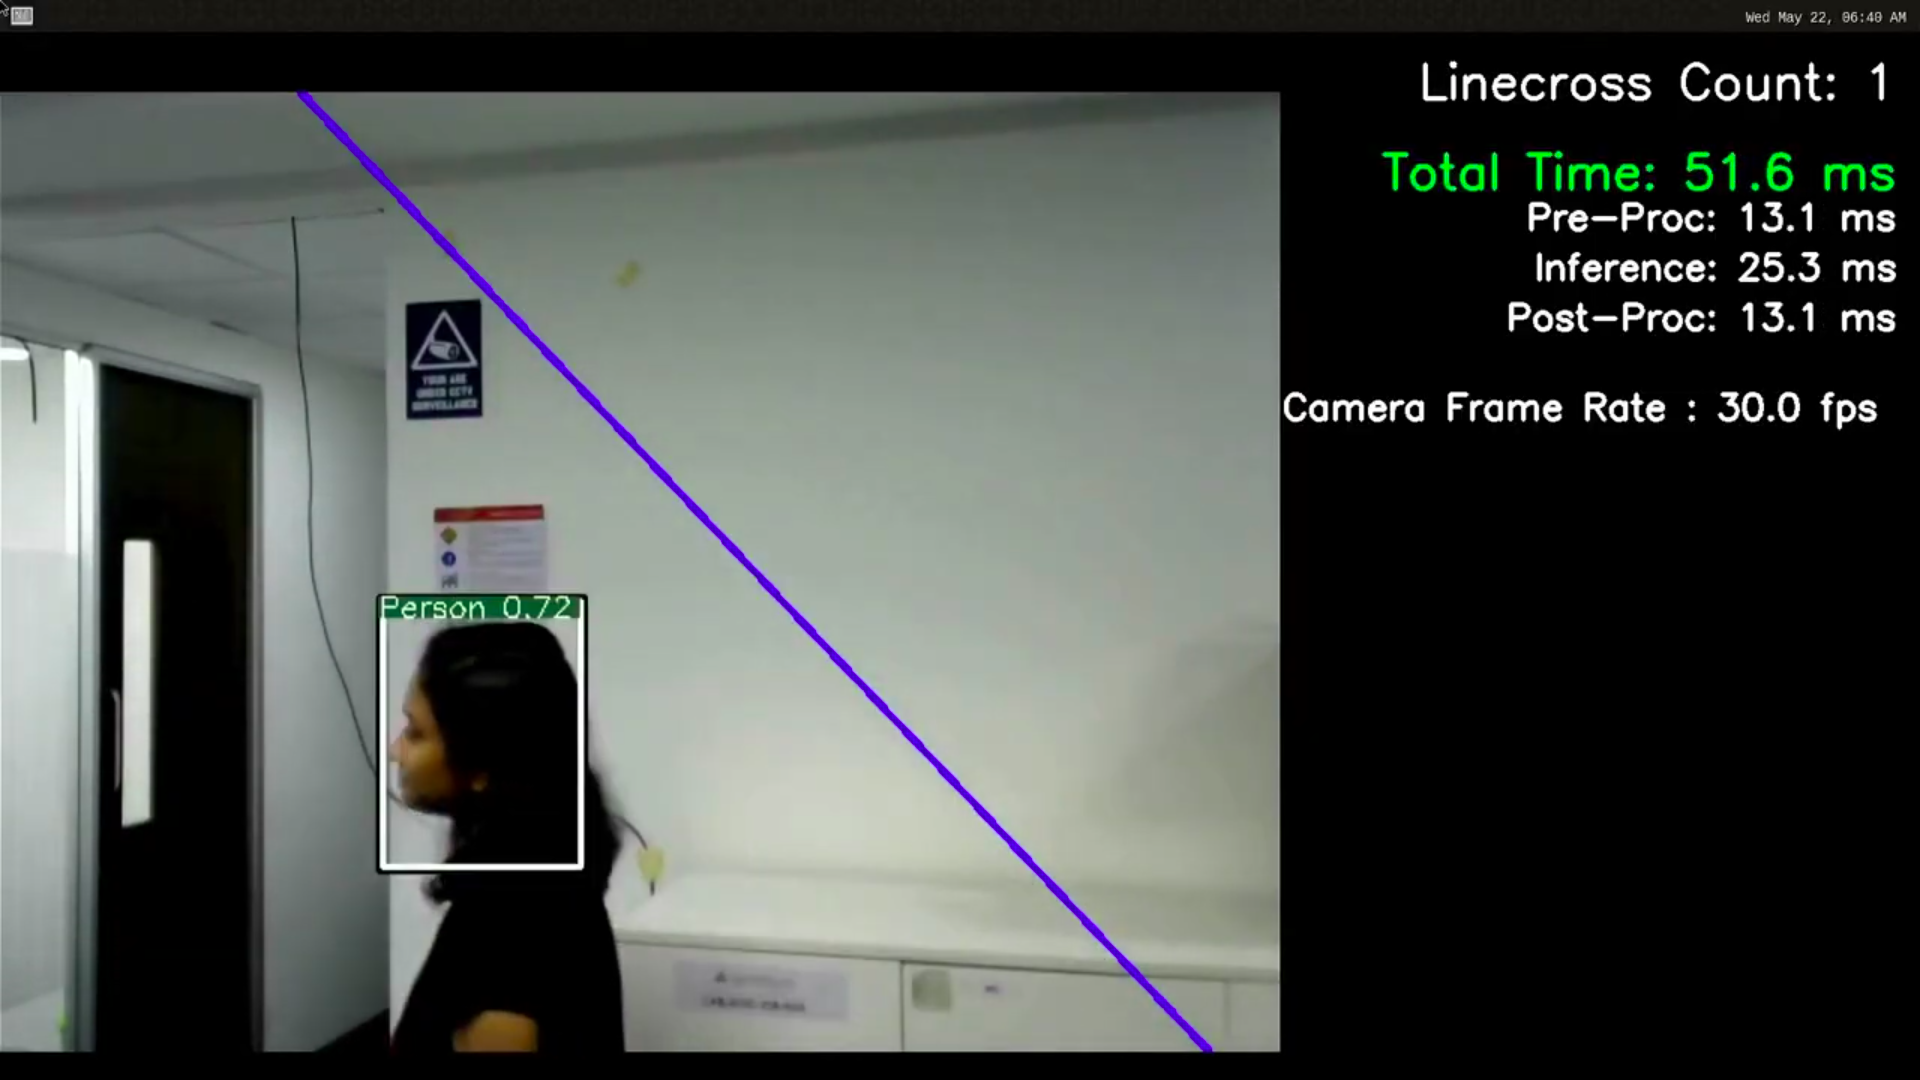
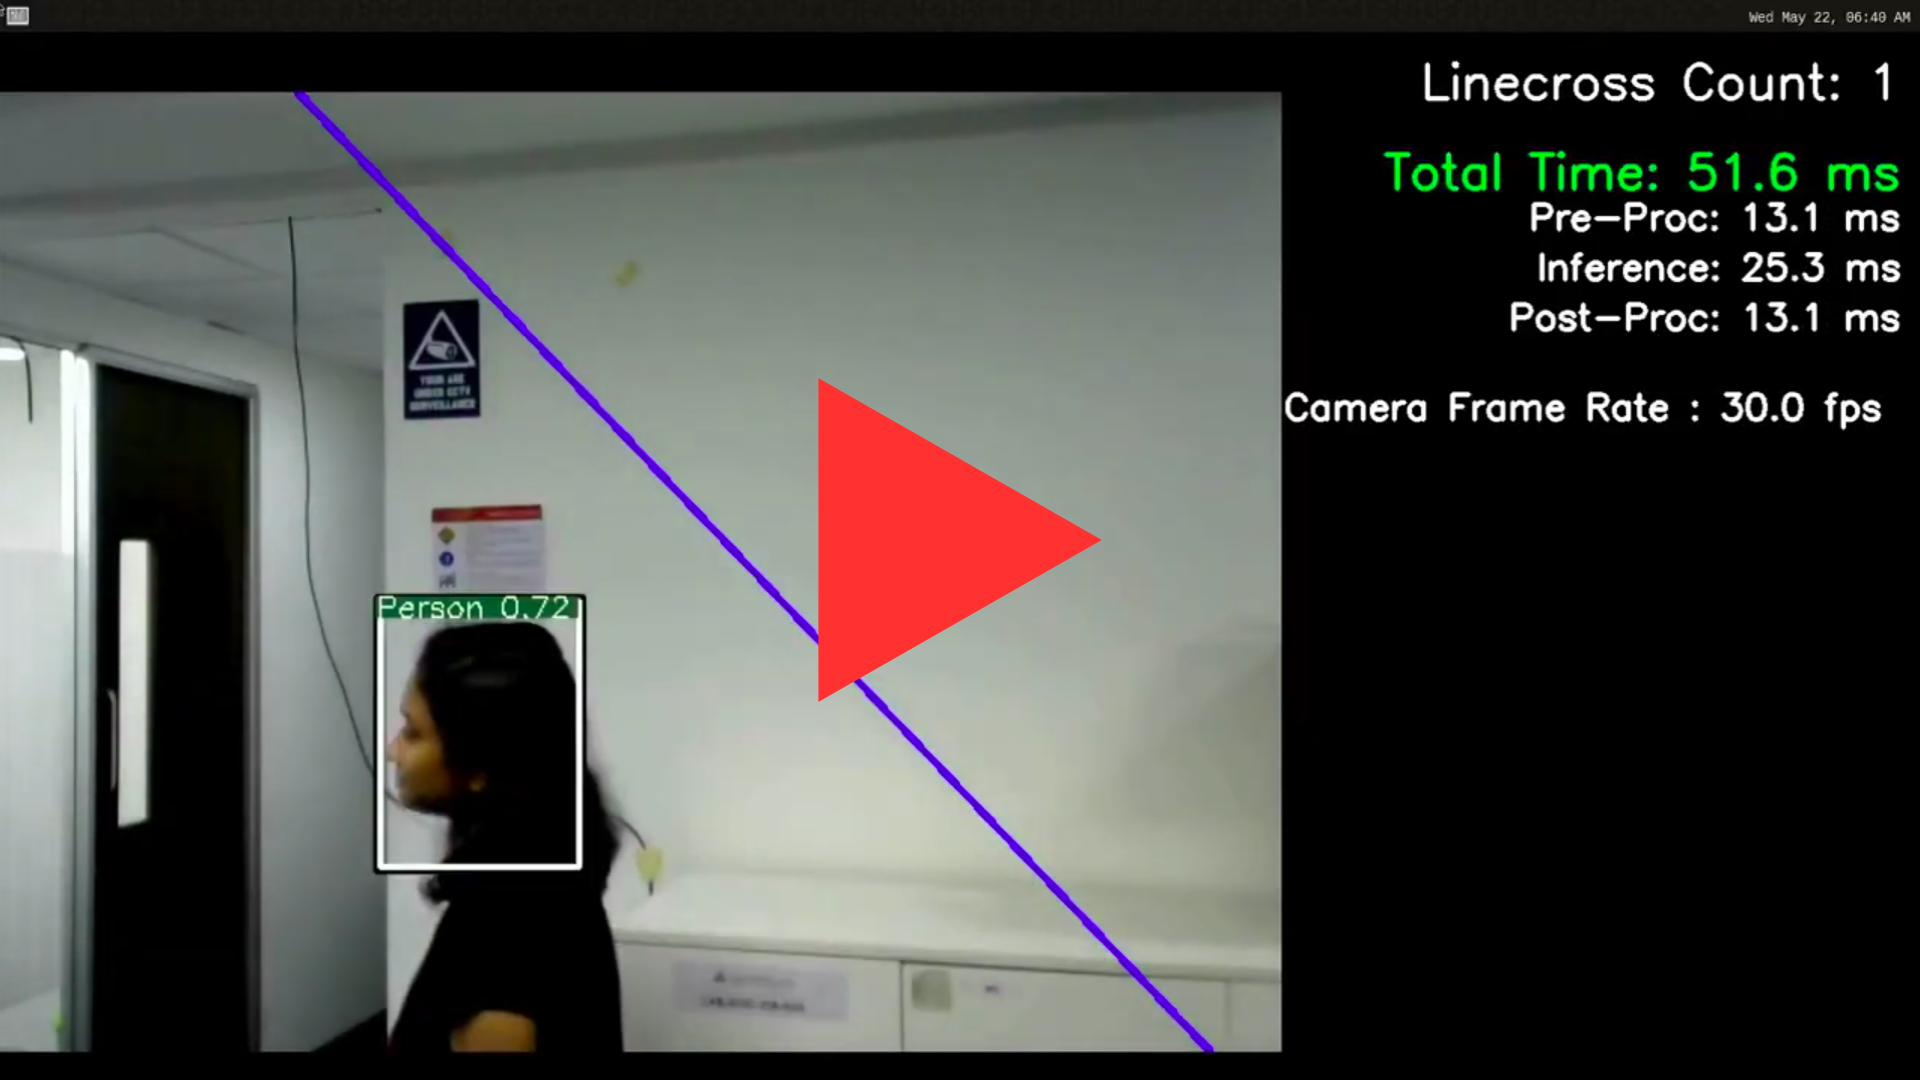
updated Readme and thumbnail

diff --git a/03_Elderly_fall_detection/README.md b/03_Elderly_fall_detection/README.md
@@ -157,8 +157,8 @@ cd /home/root/tvm
 Input size: 1x3x416x416  
 Output size: 1x13x13x30  
  
-- HRNet: [HRNet](https://github.com/HRNet/HRNet-Human-Pose-Estimation)
-- Dataset: *[MPII Human Pose Dataset](http://human-pose.mpi-inf.mpg.de/)
+- HRNet: [HRNet](https://github.com/PINTO0309/PINTO_model_zoo/tree/main/271_HRNet) 
+- Dataset: *[MPII Human Pose Dataset]( https://www.mpi-inf.mpg.de/departments/computer-vision-and-machine-learning/software-and-datasets/mpii-human-pose-dataset/download)
   
 Input size: 1x3x256x256  
 Output size: 1x16x16x64  

diff --git a/14_Multi_camera_vehicle_detection/README.md b/14_Multi_camera_vehicle_detection/README.md
@@ -12,7 +12,7 @@ The AI model used for the sample application is [YOLOX-l](https://github.com/Meg
  - RZ/V2H Evaluation Board Kit (RZ/V2H EVK)
 
  ### Sample Video on Youtube
- <a href="https://youtu.be/6iumtyCQpN4" target="_blank\">
+ <a href="https://youtu.be/gsh461URVpY" target="_blank\">
   <img src="./img/thumbnail.png" alt="Multi Camera vehicle demo" width="400" />
 </a>
 
